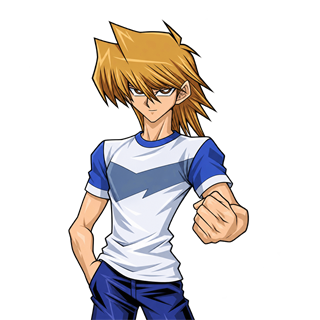
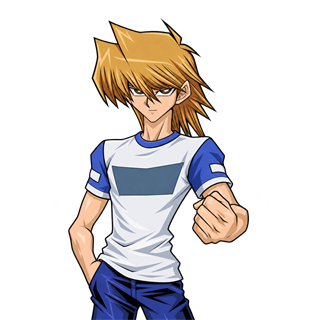
Corregge la maglietta di Joey Wheeler (1.5.58)
Suite completa non eseguita.

diff --git a/js/version.js b/js/version.js
@@ -32,6 +32,7 @@
  * in avanti si incrementa DAVVERO ad ogni sessione con cambiamenti
  * visibili, e l'elenco qui sotto tiene traccia di cosa c'è dentro.
  *
+ * 1.5.58 — Corretta fedelmente la maglietta di Joey: corpo e carré bianchi, maniche blu con dettagli bianchi e pannello blu-grigio limitato al petto.
  * 1.5.57 — Joey Wheeler indossa la sua maglietta bianca e blu caratteristica nelle figure trasparenti normale, pedina e grido.
  * 1.5.56 — Incrocio di Anime conserva video e grido dell'Evocazione divina; le Magie dalla mano volano al Cimitero dopo la risoluzione; corrette le linee del Castello di Pegasus e uniformate le icone di Cartoteca/configurazione duello.
  * 1.5.55 — Tornei senza icona avatar; Regno dei Duellanti con preparazione mazzo/difficolta' leggibile, safe area per fotocamere/notch e mappa esterna di boschi e radure piu' profonda e integrata.
@@ -792,4 +793,4 @@
  *   torneo paga solo la propria valuta; niente più stiramento elastico
  *   a fine scroll su nessuna pagina.
  */
-window.GAME_VERSION = '1.5.57';
+window.GAME_VERSION = '1.5.58';

diff --git a/sw.js b/sw.js
@@ -526,7 +526,7 @@
 // v562: Continua elimina dalla cronologia il duello appena concluso.
 // v564: Battle City canonica (otto finalisti, soli quarti sul dirigibile).
 // v565: preparazione e mappa esterna del torneo Regno dei Duellanti rinnovate.
-const CACHE_NAME = 'ygo-duel-arena-v567';
+const CACHE_NAME = 'ygo-duel-arena-v568';
 
 // L'intera "app shell": tutte le pagine HTML + tutto il codice JS/CSS che
 // le fa funzionare. Leggero (pochi MB in tutto), quindi si può precaricare
